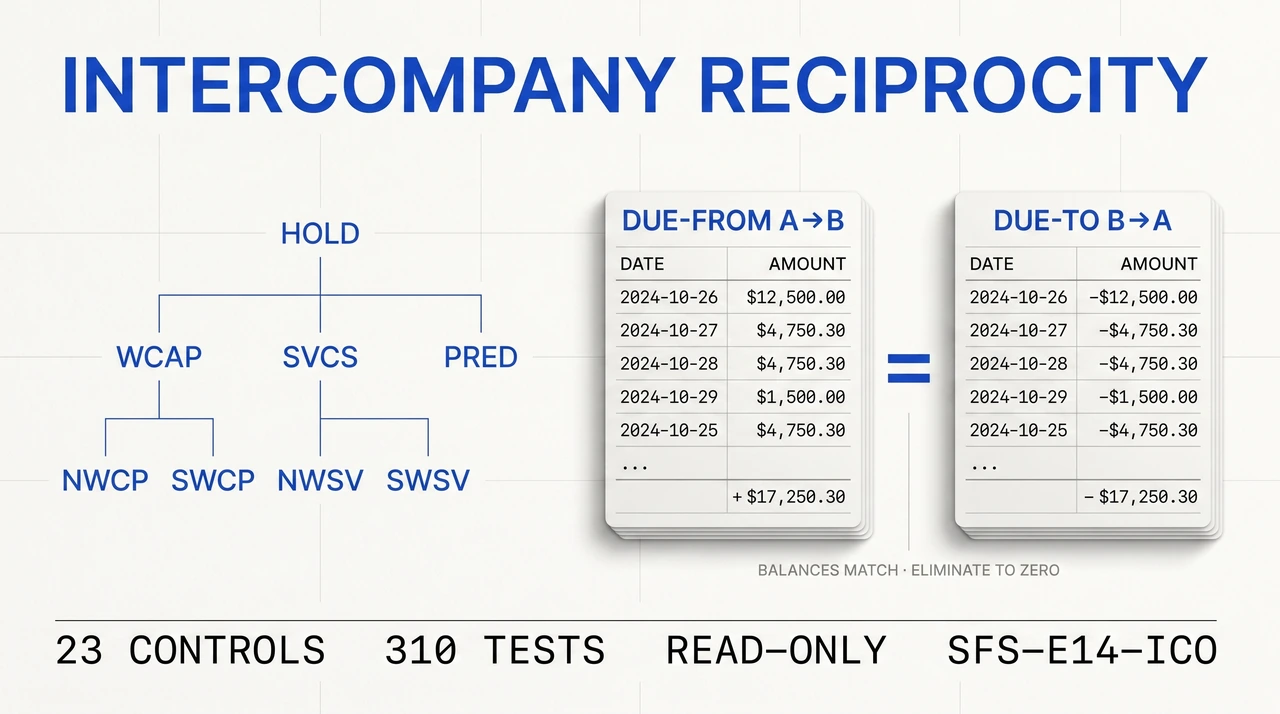
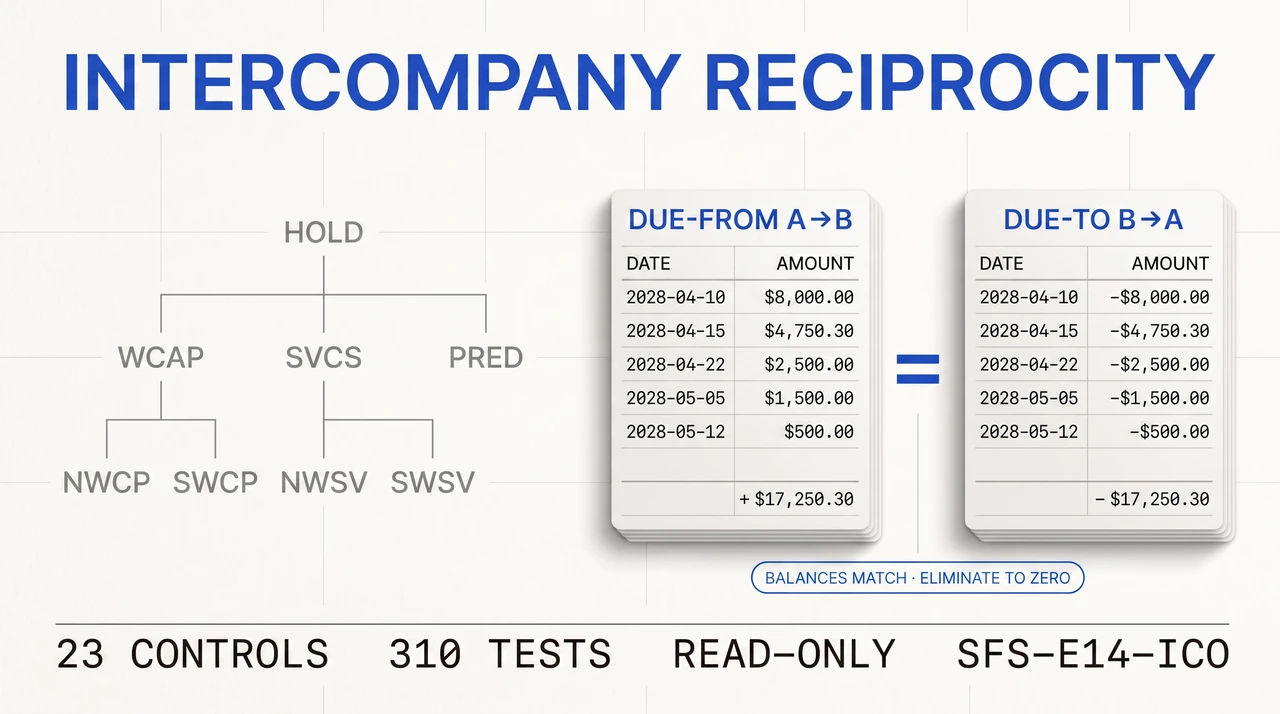
polish(intercompany): tile caption in-shape, footing ledgers, fluid motion, page copy
Finalization pass on the fourteenth engine's public assets:
- Tile: the "balances match / eliminate to zero" caption now sits inside a
  contained pill instead of floating outside the cards; the two sample ledgers
  are exact mirrors that foot to their totals (+/- $17,250.30, five rows each,
  no ellipsis) so the depicted arithmetic ties.
- Motion: slower, smootherstep-eased Ken-Burns push-in (~5.6s loop, ~3.4% zoom,
  30fps) so it glides rather than rushes.
- Page copy: reconciled the "planted defect per control" shorthand with the
  audited counts (24 defect files, 25 total, at least one per registered
  control); standardized US spelling (mislabeled/undercapitalized/capitalized);
  fixed a present-tense parallelism break; plain "core" for an idiom.

All figures true and demonstrable. Engine 310 tests, datasheet 51, deny-list
clean on the tracked tree.

diff --git a/docs/engines/intercompany.html b/docs/engines/intercompany.html
@@ -120,8 +120,8 @@ footer a{color:var(--blue);text-decoration:none}
   <p class="legend">PRODUCTION = runnable end-to-end, CI-backed, full test suite passing. All data fictional and seeded.</p>
   <h1><strong>Intercompany Reciprocity</strong></h1>
   <p class="tag">Two sides, one balance</p>
-  <p class="intro">A development group is a tree of entities, not one company: a holding parent over a services arm that carries the payroll and a capital arm that guarantees the construction loans, plus a predevelopment entity that carries land while it is entitled. Cash moves between them constantly, and every move lands two entries on two sets of books kept by two people. This engine reads the artifacts the consolidation process emits and runs twenty-three deterministic controls over them: is the entity tree itself sound, does every due-from equal the due-to that faces it, does each closing balance roll forward from the transactions that moved it, did the cash come from the protocol-correct entity and flow down the ownership chain, and does the guarantor meet its liquidity covenant. It never funds, never sweeps and never writes to a source artifact.</p>
-  <p class="thesis">The failure mode here lives between two entities, never inside one. Each company&#x27;s own books foot; the break only surfaces at consolidation, when the intercompany balances are supposed to eliminate to zero and instead leave a residual nobody can source. By then the period is closed. A one-sided balance, a closing that quietly stopped tying to the ledger, an advance funded from the wrong arm of the group -- none of these move a single entity out of balance, which is exactly why a person closing one set of books cannot see them. The engine ships one planted defect per registered control, so the benchmark is a command rather than a claim.</p>
+  <p class="intro">A development group is a tree of entities, not one company: a holding parent over a services arm that carries the payroll and a capital arm that guarantees the construction loans, plus a predevelopment entity that carries land while it is entitled. Cash moves between them constantly, and every move lands two entries on two sets of books kept by two people. This engine reads the artifacts the consolidation process emits and runs twenty-three deterministic controls over them: is the entity tree itself sound, does every due-from equal the due-to that faces it, does each closing balance roll forward from the transactions that moved it, does the cash come from the protocol-correct entity and flow down the ownership chain, and does the guarantor meet its liquidity covenant. It never funds, never sweeps and never writes to a source artifact.</p>
+  <p class="thesis">The failure mode here lives between two entities, never inside one. Each company&#x27;s own books foot; the break only surfaces at consolidation, when the intercompany balances are supposed to eliminate to zero and instead leave a residual nobody can source. By then the period is closed. A one-sided balance, a closing that quietly stopped tying to the ledger, an advance funded from the wrong arm of the group -- none of these move a single entity out of balance, which is exactly why a person closing one set of books cannot see them. The engine ships a planted-defect file for every registered control, so the benchmark is a command rather than a claim.</p>
   <p><a class="btn btn-p" href="https://codespaces.new/sophonfinance-wq/finance-automation-portfolio" target="_blank" rel="noopener">Run it</a> <a class="btn btn-t" href="/#book">Book a consultation</a></p>
 </section>
 <section><h2>Architecture</h2><span class="zone-k die-instruction">functional block stack &middot; static overview</span>
@@ -139,10 +139,10 @@ footer a{color:var(--blue);text-decoration:none}
   <div class="die-3d" aria-hidden="false">
     <button class="die-face" data-layer="set" data-plain="Checks the period file carries every schedule the controls below need, and that every entity code it names is registered." data-eng="set_complete compares the doc_type values present against model.DOC_TYPES and FAILs when any of the six is absent or duplicated -- registered first because every downstream rule reads one artifact and returns nothing when it is missing, so absent evidence would otherwise read as a held control. set_period_label rejects a file that does not name a well-formed quarter. set_entities_exist gathers every code used in the ledger, the two balance schedules, the liquidity positions and the protocol, and FAILs any that the register has never heard of -- a position on an unregistered entity cannot be reconciled or eliminated, and the row still foots on its own line." data-src="https://github.com/sophonfinance-wq/finance-automation-portfolio/blob/main/intercompany-automation/intercompany_engine/engine.py" aria-label="Structural Precondition layer — open detail" aria-controls="die-panel" aria-expanded="false">Structural Precondition</button>
     <button class="die-face" data-layer="ent" data-plain="Checks the ownership tree is sound before anything is measured against it." data-eng="Three controls. Entity codes must be unique, or a balance keyed on one is ambiguous. Each entity&#x27;s parent must be a known code, and only the top parent may be a root. The ownership chain from every entity must reach the top parent without a cycle -- a parent loop leaves the group with no root, so &#x27;flows down the chain&#x27; has no meaning and the funding-direction control below cannot be evaluated." data-src="https://github.com/sophonfinance-wq/finance-automation-portfolio/blob/main/intercompany-automation/intercompany_engine/engine.py" aria-label="The Entity Tree layer — open detail" aria-controls="die-panel" aria-expanded="false">The Entity Tree</button>
-    <button class="die-face" data-layer="rec" data-plain="Checks the two sides of every intercompany balance agree, to the cent." data-eng="Three controls, and the spine of the engine. Every due-from pair must be faced by a due-to pair and vice versa, or a receivable is an orphan the counterparty never acknowledged. Matched pairs must be equal to the cent -- two controllers book the two sides independently and the reconciliation exists precisely because they drift. And no entity may hold a balance against itself, which inflates both the receivable and payable totals by the same amount so the group still appears to eliminate. When every pair is reciprocal, the intercompany balances cancel on consolidation." data-src="https://github.com/sophonfinance-wq/finance-automation-portfolio/blob/main/intercompany-automation/intercompany_engine/engine.py" aria-label="Reciprocity layer — open detail" aria-controls="die-panel" aria-expanded="false">Reciprocity</button>
+    <button class="die-face" data-layer="rec" data-plain="Checks the two sides of every intercompany balance agree, to the cent." data-eng="Three controls, and the core of the engine. Every due-from pair must be faced by a due-to pair and vice versa, or a receivable is an orphan the counterparty never acknowledged. Matched pairs must be equal to the cent -- two controllers book the two sides independently and the reconciliation exists precisely because they drift. And no entity may hold a balance against itself, which inflates both the receivable and payable totals by the same amount so the group still appears to eliminate. When every pair is reciprocal, the intercompany balances cancel on consolidation." data-src="https://github.com/sophonfinance-wq/finance-automation-portfolio/blob/main/intercompany-automation/intercompany_engine/engine.py" aria-label="Reciprocity layer — open detail" aria-controls="die-panel" aria-expanded="false">Reciprocity</button>
     <button class="die-face" data-layer="led" data-plain="Checks each closing balance is what the transactions that moved it actually produce." data-eng="Five controls. Advances and repayments must move between two distinct entities, amounts are positive integer cents with direction carried by the transaction type rather than the sign, and the ledger totals foot from their own lines. The roll-forward is the link to the balances: each due-from closing must equal its opening plus advances less repayments, where a repayment&#x27;s cash flows debtor-to-creditor and reduces the reversed pair. Equity fundings are excluded on purpose -- they debit an investment account, not a due-from -- so a closing that moved by an equity amount has booked capital as a receivable. Transactions dated outside the reporting window are flagged." data-src="https://github.com/sophonfinance-wq/finance-automation-portfolio/blob/main/intercompany-automation/intercompany_engine/engine.py" aria-label="Roll-Forward from the Ledger layer — open detail" aria-controls="die-panel" aria-expanded="false">Roll-Forward from the Ledger</button>
-    <button class="die-face" data-layer="fund" data-plain="Checks each dollar came from the entity the protocol says it must, in the right region and direction." data-eng="Four controls drawn from the cash-flow protocol. Project equity must originate from a Capital-group entity, and from the capital entity of the project&#x27;s own region -- cross-region funding puts a project on the wrong balance sheet. Services and predevelopment funding must come from the top parent, never the Capital group, which crosses the wall between the group that guarantees the loans and the group that carries the people. And an advance should flow down the ownership chain to a descendant; one running up the chain or across the tree is flagged, because it is more often a distribution or a cash sweep mislabelled." data-src="https://github.com/sophonfinance-wq/finance-automation-portfolio/blob/main/intercompany-automation/intercompany_engine/engine.py" aria-label="Funding Protocol layer — open detail" aria-controls="die-panel" aria-expanded="false">Funding Protocol</button>
-    <button class="die-face" data-layer="liq" data-plain="Checks the guarantor holds its covenant minimum and no entity is over- or under-funded." data-eng="Three controls. The guarantor of the construction loans must hold at least its minimum liquidity -- falling under the floor is a covenant breach whether or not any single transaction looks wrong. No entity may report negative cash. And each entity with a protocol target band is flagged, not failed, when its cash sits outside the band: far below is undercapitalised for the cash it should carry, far above is cash the sweep should have pulled up." data-src="https://github.com/sophonfinance-wq/finance-automation-portfolio/blob/main/intercompany-automation/intercompany_engine/engine.py" aria-label="Liquidity Covenants layer — open detail" aria-controls="die-panel" aria-expanded="false">Liquidity Covenants</button>
+    <button class="die-face" data-layer="fund" data-plain="Checks each dollar came from the entity the protocol says it must, in the right region and direction." data-eng="Four controls drawn from the cash-flow protocol. Project equity must originate from a Capital-group entity, and from the capital entity of the project&#x27;s own region -- cross-region funding puts a project on the wrong balance sheet. Services and predevelopment funding must come from the top parent, never the Capital group, which crosses the wall between the group that guarantees the loans and the group that carries the people. And an advance should flow down the ownership chain to a descendant; one running up the chain or across the tree is flagged, because it is more often a distribution or a cash sweep mislabeled." data-src="https://github.com/sophonfinance-wq/finance-automation-portfolio/blob/main/intercompany-automation/intercompany_engine/engine.py" aria-label="Funding Protocol layer — open detail" aria-controls="die-panel" aria-expanded="false">Funding Protocol</button>
+    <button class="die-face" data-layer="liq" data-plain="Checks the guarantor holds its covenant minimum and no entity is over- or under-funded." data-eng="Three controls. The guarantor of the construction loans must hold at least its minimum liquidity -- falling under the floor is a covenant breach whether or not any single transaction looks wrong. No entity may report negative cash. And each entity with a protocol target band is flagged, not failed, when its cash sits outside the band: far below is undercapitalized for the cash it should carry, far above is cash the sweep should have pulled up." data-src="https://github.com/sophonfinance-wq/finance-automation-portfolio/blob/main/intercompany-automation/intercompany_engine/engine.py" aria-label="Liquidity Covenants layer — open detail" aria-controls="die-panel" aria-expanded="false">Liquidity Covenants</button>
     <button class="die-face" data-layer="appr" data-plain="Checks the ledger is approved and that large advances are surfaced for a second look." data-eng="Two controls: the intercompany ledger must carry an approver and a date, because cash moved between entities without a sign-off is a control gap; and any single advance at or above the protocol&#x27;s second-signature threshold is flagged for review, which is cheaper than discovering an unreviewed eight-figure advance after the quarter closed." data-src="https://github.com/sophonfinance-wq/finance-automation-portfolio/blob/main/intercompany-automation/intercompany_engine/engine.py" aria-label="Governance layer — open detail" aria-controls="die-panel" aria-expanded="false">Governance</button>
   </div>
   <div class="die-panel" id="die-panel" role="region" aria-label="Architecture layer details" aria-live="polite"><h3>Select a layer</h3><p>Seven control families run in registry order over each period file. The first proves the others had something to read, and that every code they resolve exists.</p></div>
@@ -152,7 +152,7 @@ footer a{color:var(--blue);text-decoration:none}
   <div class="cell"><div class="v">310<sup class="fn"><a id="fnref-1" href="#fn-1" aria-label="See substantiation 1">1</a></sup></div><div class="l">Tests</div><div class="p">the collected checks that pin this engine&#x27;s behavior</div></div>
   <div class="cell"><div class="v">23<sup class="fn"><a id="fnref-2" href="#fn-2" aria-label="See substantiation 2">2</a></sup></div><div class="l">Controls</div><div class="p">independent rules run over every period file</div></div>
   <div class="cell"><div class="v">7<sup class="fn"><a id="fnref-3" href="#fn-3" aria-label="See substantiation 3">3</a></sup></div><div class="l">Families</div><div class="p">groups of controls, each answering one question</div></div>
-  <div class="cell"><div class="v">25<sup class="fn"><a id="fnref-4" href="#fn-4" aria-label="See substantiation 4">4</a></sup></div><div class="l">Period files</div><div class="p">one clean baseline plus one planted defect per control</div></div>
+  <div class="cell"><div class="v">25<sup class="fn"><a id="fnref-4" href="#fn-4" aria-label="See substantiation 4">4</a></sup></div><div class="l">Period files</div><div class="p">one clean baseline plus 24 planted-defect files, at least one per control</div></div>
   <div class="cell"><div class="v">6<sup class="fn"><a id="fnref-5" href="#fn-5" aria-label="See substantiation 5">5</a></sup></div><div class="l">Artifacts read</div><div class="p">register, protocol, ledger, due-from, due-to, liquidity</div></div>
   <div class="cell"><div class="v">0<sup class="fn"><a id="fnref-6" href="#fn-6" aria-label="See substantiation 6">6</a></sup></div><div class="l">Tolerance</div><div class="p">one cent between the two sides is a break, not a rounding band</div></div>
 </div></section>
@@ -192,12 +192,12 @@ footer a{color:var(--blue);text-decoration:none}
   <g class="schem-block" data-block="register"><a href="https://github.com/sophonfinance-wq/finance-automation-portfolio/blob/main/intercompany-automation/intercompany_engine/model.py" target="_blank" rel="noopener" aria-label="Open Entity Register source on GitHub"><rect x="510" y="386" width="170" height="74" rx="4" fill="#ffffff" stroke="#0f62fe" stroke-width="1.6"/><text x="595" y="427" font-family="IBM Plex Sans,sans-serif" font-size="13" font-weight="600" fill="#161616" text-anchor="middle">Entity Register</text></a></g>
   <g class="schem-block" data-block="report"><a href="https://github.com/sophonfinance-wq/finance-automation-portfolio/blob/main/intercompany-automation/intercompany_engine/report.py" target="_blank" rel="noopener" aria-label="Open Verdict and Findings source on GitHub"><rect x="750" y="272" width="170" height="74" rx="4" fill="#ffffff" stroke="#0f62fe" stroke-width="1.6"/><text x="835" y="313" font-family="IBM Plex Sans,sans-serif" font-size="13" font-weight="600" fill="#161616" text-anchor="middle">Verdict and Findings</text></a></g>
   <g class="schem-title"><line x1="30" y1="504" x2="920" y2="504" stroke="#c6c6c6" stroke-width="1"/><text x="30" y="518" font-family="IBM Plex Mono,monospace" font-size="10" fill="#6f6f6f">SFS-E14-ICO &middot; FUNCTIONAL BLOCK DIAGRAM &middot; REV 2026-07-22</text></g>
-</svg></div><div class="pair schematic-pair"><div class="plain"><h3>Plain terms</h3><ul><li><b>Seeded Period Files.</b> fictional intercompany period files enter the control registry</li><li><b>Structural Precondition.</b> is the file complete, and does every code it names exist</li><li><b>Entity Tree.</b> is the ownership tree itself sound</li><li><b>Reciprocity.</b> does every due-from equal the due-to that faces it</li><li><b>Roll-Forward.</b> does the closing tie to the transactions that moved it</li><li><b>Funding Protocol.</b> did the cash come from the right entity, region and direction</li><li><b>Liquidity Covenants.</b> does the guarantor meet its floor, and is anyone off-target</li><li><b>Governance.</b> is the ledger approved and are large advances surfaced</li><li><b>Entity Register.</b> the entity tree every rule resolves codes against</li><li><b>Verdict and Findings.</b> every finding, with the reason it exists, ends at a person</li></ul></div><div class="engineering"><h3>Engineering</h3><ul><li><b>Seeded Period Files.</b> generate_corpus writes one clean baseline plus one planted defect per registered control, 25 files in total. Only the entity tree, the protocol thresholds, the opening balances and the period transactions are stated; every closing balance, every due-to mirror and the ledger totals are derived.</li><li><b>Structural Precondition.</b> Three controls. Fails a file missing any of the six artifact types or naming an entity the register does not carry, so no downstream rule holds vacuously.</li><li><b>Entity Tree.</b> Three controls: unique codes, defined parents, and an acyclic chain that reaches the top parent.</li><li><b>Reciprocity.</b> Three controls: every pair two-sided, matched pairs equal to the cent, and no entity holding a balance against itself.</li><li><b>Roll-Forward.</b> Five controls tying each due-from closing to opening plus advances less repayments, with equity excluded and the ledger totals footing from their lines.</li><li><b>Funding Protocol.</b> Four controls: equity from the Capital group, region-matched, Services and predevelopment funded from the top parent, and advances flowing down the chain.</li><li><b>Liquidity Covenants.</b> Three controls over the guarantor minimum, non-negative cash, and the protocol target bands.</li><li><b>Governance.</b> Two controls over ledger approval and a second-signature threshold on large advances.</li><li><b>Entity Register.</b> Each entity&#x27;s code, group, parent and region. Reciprocity, funding direction and funding source are all evaluated against this one authority.</li><li><b>Verdict and Findings.</b> Findings roll up per period file: any FAIL is FAIL, FLAGs without FAILs are REVIEW, clean is PASS. The CLI exit code is the verdict, so a pipeline can gate on it. Reports carry no timestamps or absolute paths, which is what makes the committed report diffable.</li></ul></div></div>
+</svg></div><div class="pair schematic-pair"><div class="plain"><h3>Plain terms</h3><ul><li><b>Seeded Period Files.</b> fictional intercompany period files enter the control registry</li><li><b>Structural Precondition.</b> is the file complete, and does every code it names exist</li><li><b>Entity Tree.</b> is the ownership tree itself sound</li><li><b>Reciprocity.</b> does every due-from equal the due-to that faces it</li><li><b>Roll-Forward.</b> does the closing tie to the transactions that moved it</li><li><b>Funding Protocol.</b> does the cash come from the right entity, region and direction</li><li><b>Liquidity Covenants.</b> does the guarantor meet its floor, and is anyone off-target</li><li><b>Governance.</b> is the ledger approved and are large advances surfaced</li><li><b>Entity Register.</b> the entity tree every rule resolves codes against</li><li><b>Verdict and Findings.</b> every finding, with the reason it exists, ends at a person</li></ul></div><div class="engineering"><h3>Engineering</h3><ul><li><b>Seeded Period Files.</b> generate_corpus writes one clean baseline plus 24 planted-defect files, at least one for every registered control, 25 files in total. Only the entity tree, the protocol thresholds, the opening balances and the period transactions are stated; every closing balance, every due-to mirror and the ledger totals are derived.</li><li><b>Structural Precondition.</b> Three controls. Fails a file missing any of the six artifact types or naming an entity the register does not carry, so no downstream rule holds vacuously.</li><li><b>Entity Tree.</b> Three controls: unique codes, defined parents, and an acyclic chain that reaches the top parent.</li><li><b>Reciprocity.</b> Three controls: every pair two-sided, matched pairs equal to the cent, and no entity holding a balance against itself.</li><li><b>Roll-Forward.</b> Five controls tying each due-from closing to opening plus advances less repayments, with equity excluded and the ledger totals footing from their lines.</li><li><b>Funding Protocol.</b> Four controls: equity from the Capital group, region-matched, Services and predevelopment funded from the top parent, and advances flowing down the chain.</li><li><b>Liquidity Covenants.</b> Three controls over the guarantor minimum, non-negative cash, and the protocol target bands.</li><li><b>Governance.</b> Two controls over ledger approval and a second-signature threshold on large advances.</li><li><b>Entity Register.</b> Each entity&#x27;s code, group, parent and region. Reciprocity, funding direction and funding source are all evaluated against this one authority.</li><li><b>Verdict and Findings.</b> Findings roll up per period file: any FAIL is FAIL, FLAGs without FAILs are REVIEW, clean is PASS. The CLI exit code is the verdict, so a pipeline can gate on it. Reports carry no timestamps or absolute paths, which is what makes the committed report diffable.</li></ul></div></div>
 </section>
 <section><h2>Instruction set</h2><span class="zone-k">every public command</span>
 <table class="ds"><thead><tr><th>Command</th><th>Operation</th><th>Output</th><th>Exit</th><th>Artifacts</th></tr></thead>
 <tbody>
-  <tr><td class="mono"><div class="copyrow"><code>python run.py</code><button class="copybtn" data-copy="python run.py" aria-label="Copy command: python run.py">copy</button></div></td><td>generate the seeded fictional corpus, run all twenty-three controls, write both reports</td><td class="mono">per-file verdicts and every actionable finding, then the overall verdict</td><td class="mono">2 for the bundled corpus, which carries one planted defect per control by design</td><td>intercompany_report.md, intercompany_report.json, samples/</td></tr>
+  <tr><td class="mono"><div class="copyrow"><code>python run.py</code><button class="copybtn" data-copy="python run.py" aria-label="Copy command: python run.py">copy</button></div></td><td>generate the seeded fictional corpus, run all twenty-three controls, write both reports</td><td class="mono">per-file verdicts and every actionable finding, then the overall verdict</td><td class="mono">2 for the bundled corpus, which carries a planted defect for every control by design</td><td>intercompany_report.md, intercompany_report.json, samples/</td></tr>
   <tr><td class="mono"><div class="copyrow"><code>python -m intercompany_engine samples</code><button class="copybtn" data-copy="python -m intercompany_engine samples" aria-label="Copy command: python -m intercompany_engine samples">copy</button></div></td><td>analyze an existing folder of period files without regenerating it</td><td class="mono">per-file verdicts and findings</td><td class="mono">0 PASS / 1 REVIEW / 2 FAIL / 3 usage</td><td>none unless --json or --md is passed</td></tr>
   <tr><td class="mono"><div class="copyrow"><code>python -m intercompany_engine samples --generate --quiet</code><button class="copybtn" data-copy="python -m intercompany_engine samples --generate --quiet" aria-label="Copy command: python -m intercompany_engine samples --generate --quiet">copy</button></div></td><td>regenerate the corpus and print only the overall verdict</td><td class="mono">a single verdict line</td><td class="mono">0 PASS / 1 REVIEW / 2 FAIL / 3 usage</td><td>samples/</td></tr>
   <tr><td class="mono"><div class="copyrow"><code>python -m pytest</code><button class="copybtn" data-copy="python -m pytest" aria-label="Copy command: python -m pytest">copy</button></div></td><td>run the full test suite for this engine</td><td class="mono">310 passed</td><td class="mono">0 when every test passes</td><td>none</td></tr>
@@ -211,7 +211,7 @@ footer a{color:var(--blue);text-decoration:none}
   <tr><td>Control coverage<sup class="fn"><a id="fnref-13" href="#fn-13" aria-label="See substantiation 13">13</a></sup></td><td class="mono"><b>100</b> percent of controls with a planted defect<br><span style="color:#6f6f6f;font-size:12.5px">no control ships without a file demonstrating it firing</span></td></tr>
 </tbody></table></section>
 <section><h2>Control characteristics</h2><span class="zone-k">engineering</span>
-<div class="pair control-pair"><div class="plain"><h3>Plain terms</h3><p>The engine has no write path and therefore no autonomy to gate. It produces findings; a person decides.</p></div><div class="engineering"><h3>Engineering</h3><p><b>Deterministic envelope.</b> seeded fictional inputs, read-only operation, offline default mode.</p><p><b>Demo gate.</b> FAIL on the bundled corpus, by design -- it carries one planted defect per registered control</p></div></div>
+<div class="pair control-pair"><div class="plain"><h3>Plain terms</h3><p>The engine has no write path and therefore no autonomy to gate. It produces findings; a person decides.</p></div><div class="engineering"><h3>Engineering</h3><p><b>Deterministic envelope.</b> seeded fictional inputs, read-only operation, offline default mode.</p><p><b>Demo gate.</b> FAIL on the bundled corpus, by design -- it carries a planted defect for every registered control</p></div></div>
 <table class="ds" style="margin-top:14px"><thead><tr><th>Severity</th><th>Verdict</th><th>Action</th></tr></thead><tbody><tr><td>No findings above PASS</td><td class="mono"><b>PASS</b></td><td>carry the mechanically clean positions into the documented consolidation review</td></tr><tr><td>One or more FLAG, no FAIL</td><td class="mono"><b>REVIEW</b></td><td>a human resolves each flag; an advance running up the chain, a cash target out of band, and a large advance awaiting a second signature all land here</td></tr><tr><td>One or more FAIL</td><td class="mono"><b>FAIL</b></td><td>the positions do not go to consolidation until the failing control is cleared</td></tr></tbody></table>
 <ul style="margin-top:14px"><li style="list-style:disc;margin-left:18px">Read-only: period files are parsed and never written back, so the engine cannot introduce the break it reports.</li><li style="list-style:disc;margin-left:18px">Integer cents throughout, compared with exact equality; there is no tolerance band between a due-from and the due-to it faces.</li><li style="list-style:disc;margin-left:18px">A value that should be integer cents but is not produces an AMOUNT_INVALID finding contained to the one row it was read on, rather than being coerced.</li><li style="list-style:disc;margin-left:18px">Deterministic and byte-stable: same inputs produce the same findings in the same order, with no timestamps or absolute paths in any output.</li><li style="list-style:disc;margin-left:18px">Absent evidence is never a passing control; a missing due-to schedule fails completeness rather than letting reciprocity pass unread.</li></ul>
 </section>